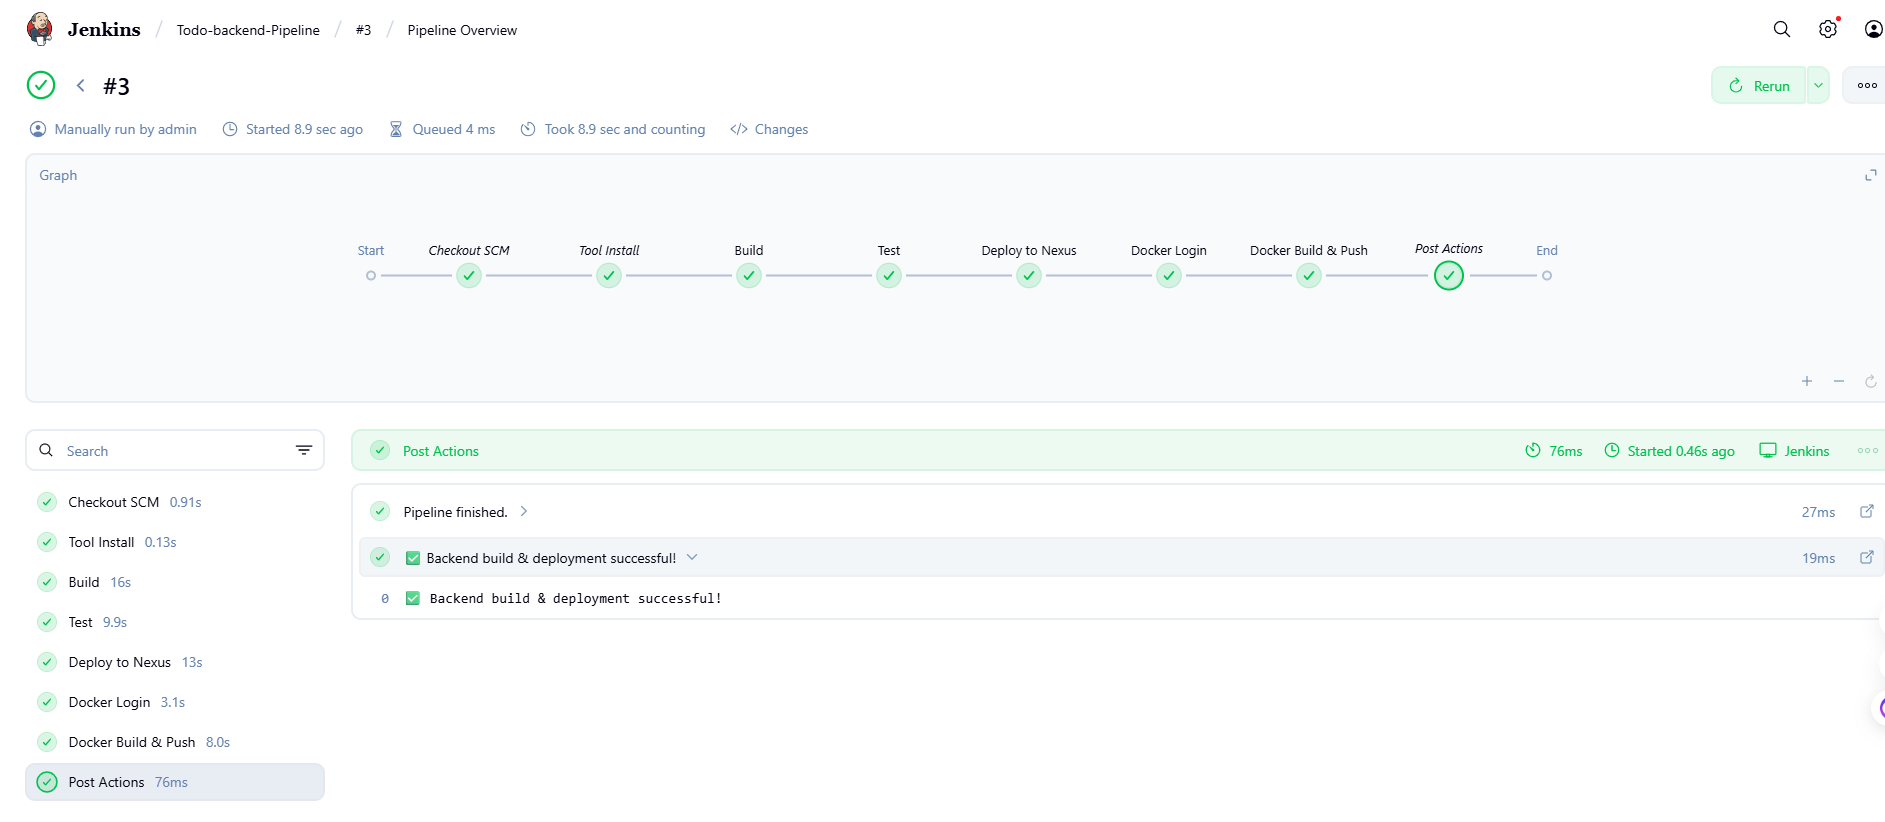
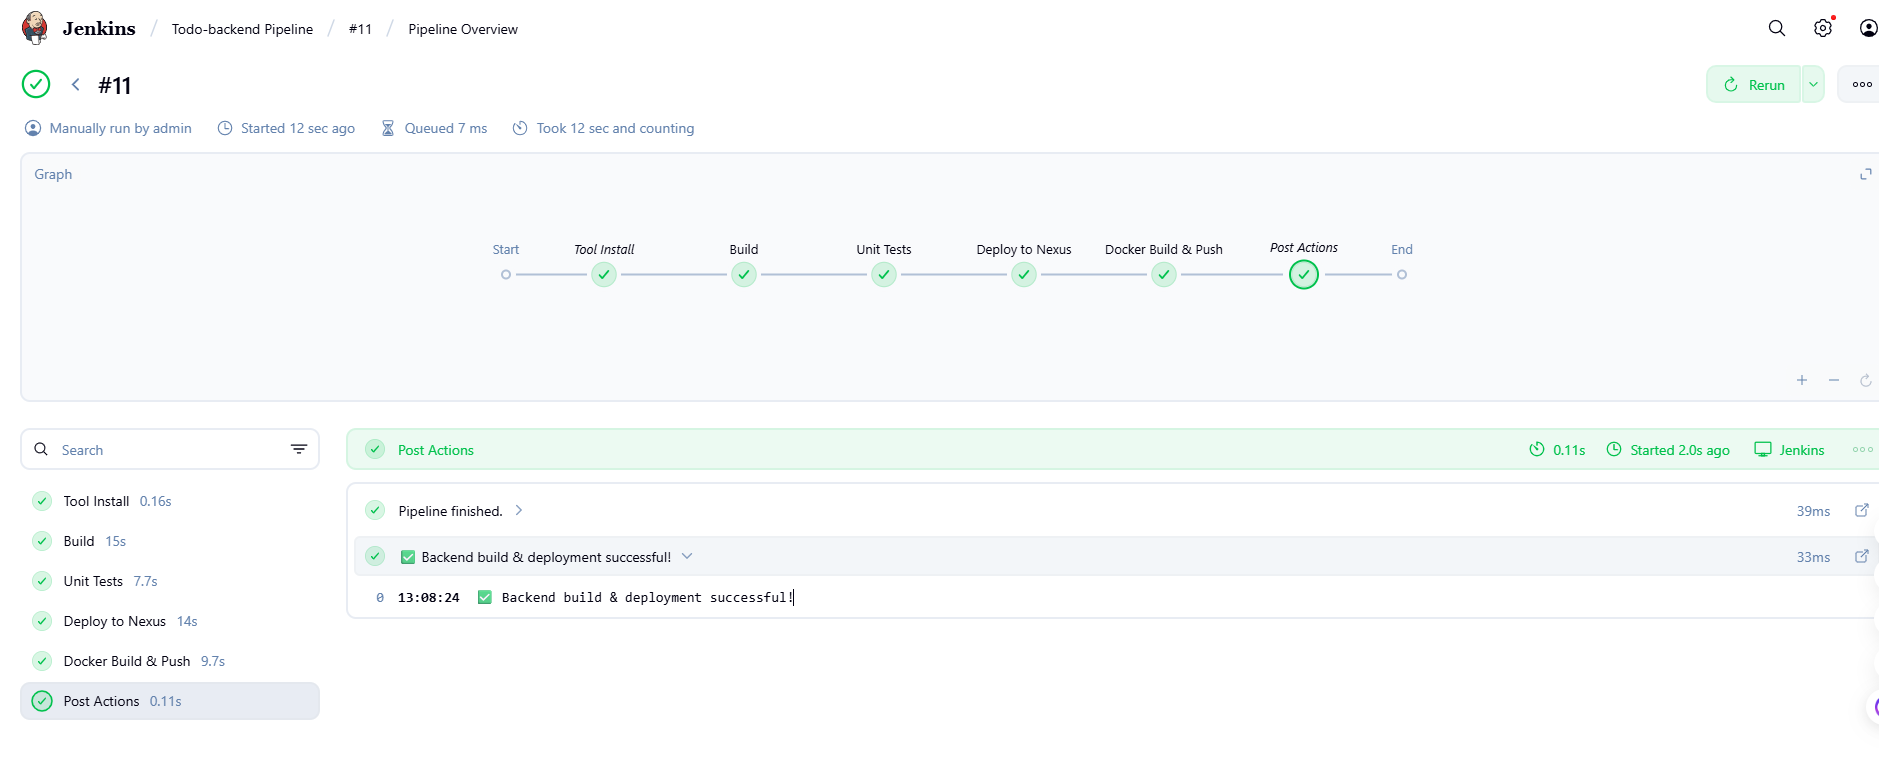
Updates

diff --git a/todo-backend/README.md b/todo-backend/README.md
@@ -39,13 +39,50 @@ This is the backend for a Trello-like task management application, containerized
 This project uses **Jenkins** to automate the backend build, test, and deployment process using a **CI/CD pipeline**.  
 
 - Automated build and test for every commit using **Maven**
-- Automated deployment to **Nexus repository**
-- Docker images are built and optionally pushed to **Docker Hub**
+- Automated deployment to **Nexus repository** for main branch builds
+- Docker images are built and pushed to **Docker Hub** for main branch builds
+- Branch-specific stages: only main triggers deployment and Docker push
 - Ensures code quality and faster delivery with minimal manual steps
 
 ## 🛠 CI/CD Pipeline
 
-The following screenshot shows the pipeline in action:
+To make sure our backend is always up-to-date, tested, and ready to deploy, I set up a **Jenkins pipeline** that automates most of the work for us. Here’s how it works:
+
+1. **Build**  
+   First, Jenkins compiles the project using Maven. I skip the tests at this stage to make the build faster—no one likes waiting too long for a simple compilation.
+
+2. **Unit Tests**  
+   Next, all the service classes and business logic are tested in an isolated environment using an **H2 in-memory database**. This ensures that any code we write behaves as expected before it ever reaches production.
+
+3. **Deploy to Nexus**  
+   Once everything passes, if the commit is on the **main branch**, the pipeline automatically deploys the built artifacts to **Nexus**. This way, our Maven packages are safely stored and versioned, ready for other projects or future use.
+
+
+4. **Docker Build & Push**  
+   At the same time, Jenkins builds a **Docker image** for the backend and pushes it to **Docker Hub**, but only from the main branch. This ensures that our production-ready image is always up-to-date without accidentally overwriting in-progress feature branches.
+
+
+5. **Post Actions**  
+   Finally, Jenkins prints clear messages in the logs to show whether everything succeeded or if something went wrong. This makes it easy to track the pipeline status at a glance.
+
+### **Branch Behavior**
+
+- **`main` branch** → Triggers deployment to **Nexus** and Docker image push.  
+- **Other branches** → Only builds and runs tests. This prevents unfinished work from affecting production.
+
+### **Credentials Required in Jenkins**
+
+To make this all work smoothly, Jenkins uses:
+
+- **Maven settings (`maven-settings`)** → For authenticating and deploying to Nexus.  
+- **Docker Hub credentials (`dockerhub-credentials`)** → For logging in and pushing Docker images.
+
+### **Why This Setup?**
+
+I designed it this way to minimize manual steps, prevent mistakes, and ensure that the backend is always tested, packaged, and ready to run. Every commit is either verified in a test environment or fully deployed, depending on the branch. It’s all about **speed, reliability, and confidence** in the code.
+
+
+### **Pipeline Screenshot**
 
 ![Jenkins Pipeline](/todo-backend/docs/jenkins-pipeline.png)
 
